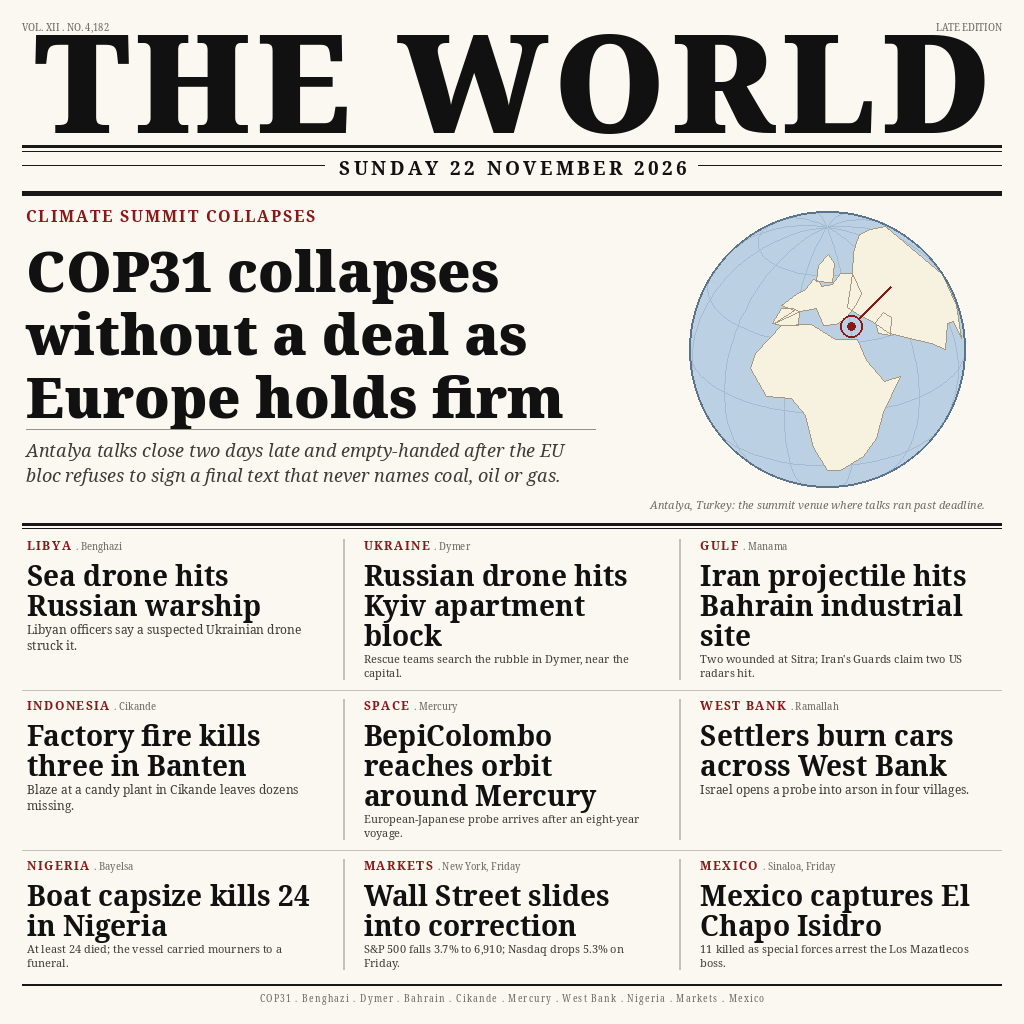
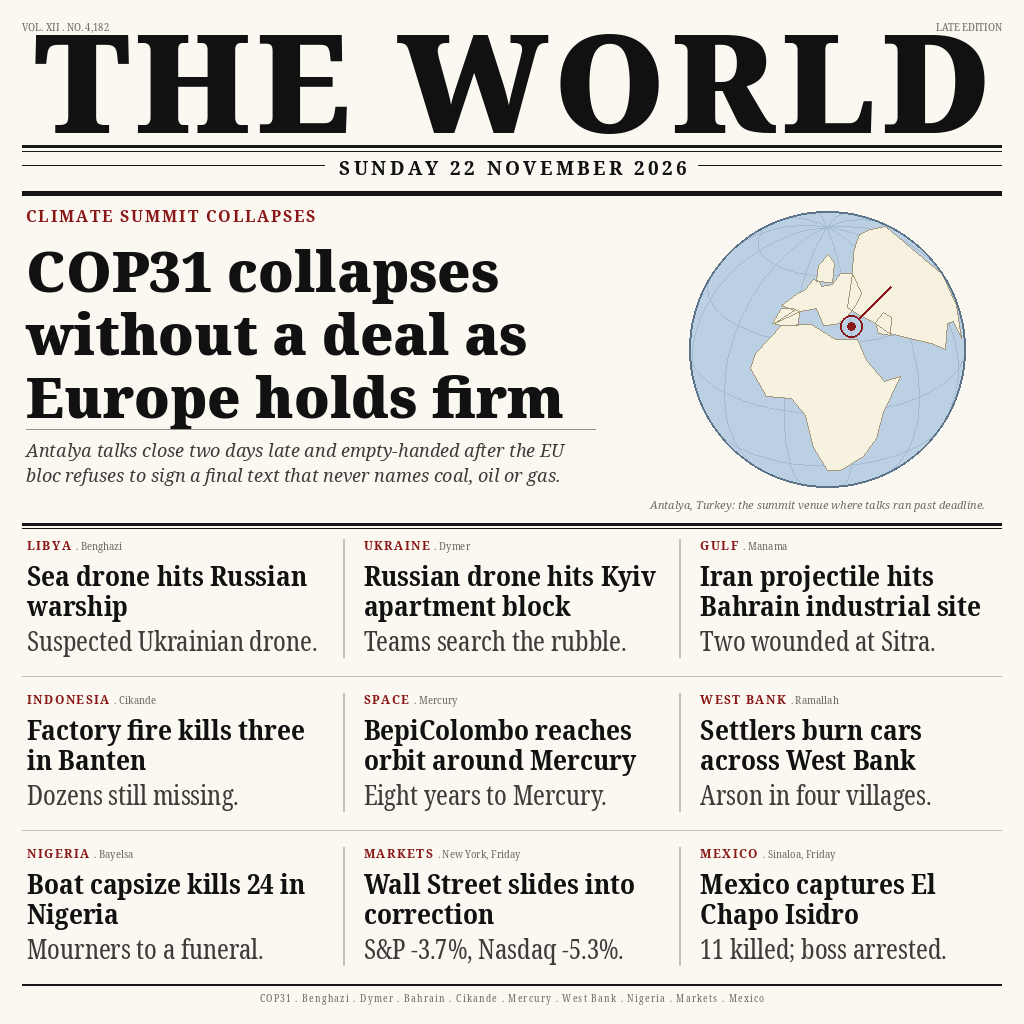
readability-v1: one-line 27.4pt standfirsts, condensed headlines for a 3x3 grid

Changed region(s): [[0.3438, 0.5312, 0.625, 0.9375], [0.6562, 0.5312, 0.9688, 0.9375], [0.0312, 0.5312, 0.3125, 0.9688]]

diff --git a/gen_image.py b/gen_image.py
@@ -42,6 +42,7 @@ SERIF_XBOLD = FONT_DIR + "NotoSerif-ExtraBold.ttf"
 SERIF_BOLD = FONT_DIR + "NotoSerif-Bold.ttf"
 SERIF_COND_BOLD = FONT_DIR + "NotoSerif-CondensedBold.ttf"
 SERIF_COND = FONT_DIR + "NotoSerif-Condensed.ttf"
+SERIF_XCOND = FONT_DIR + "NotoSerif-ExtraCondensed.ttf"
 SERIF = FONT_DIR + "NotoSerif-Regular.ttf"
 SERIF_ITALIC = FONT_DIR + "NotoSerif-Italic.ttf"
 
@@ -263,29 +264,29 @@ def lead(draw, img, top, bottom):
 
 STORIES = [
     ("LIBYA", "Benghazi", "Sea drone hits Russian warship",
-     "Libyan officers say a suspected Ukrainian drone struck it."),
+     "Suspected Ukrainian drone."),
     ("UKRAINE", "Dymer", "Russian drone hits Kyiv apartment block",
-     "Rescue teams search the rubble in Dymer, near the capital."),
+     "Teams search the rubble."),
     ("GULF", "Manama", "Iran projectile hits Bahrain industrial site",
-     "Two wounded at Sitra; Iran's Guards claim two US radars hit."),
+     "Two wounded at Sitra."),
     ("INDONESIA", "Cikande", "Factory fire kills three in Banten",
-     "Blaze at a candy plant in Cikande leaves dozens missing."),
+     "Dozens still missing."),
     ("SPACE", "Mercury", "BepiColombo reaches orbit around Mercury",
-     "European-Japanese probe arrives after an eight-year voyage."),
+     "Eight years to Mercury."),
     ("WEST BANK", "Ramallah", "Settlers burn cars across West Bank",
-     "Israel opens a probe into arson in four villages."),
+     "Arson in four villages."),
     ("NIGERIA", "Bayelsa", "Boat capsize kills 24 in Nigeria",
-     "At least 24 died; the vessel carried mourners to a funeral."),
+     "Mourners to a funeral."),
     ("MARKETS", "New York, Friday", "Wall Street slides into correction",
-     "S&P 500 falls 3.7% to 6,910; Nasdaq drops 5.3% on Friday."),
+     "S&P -3.7%, Nasdaq -5.3%."),
     ("MEXICO", "Sinaloa, Friday", "Mexico captures El Chapo Isidro",
-     "11 killed as special forces arrest the Los Mazatlecos boss."),
+     "11 killed; boss arrested."),
 ]
 
 
 def panel(draw, box, story):
     x0, y0, x1, y1 = box
-    w, h = x1 - x0, y1 - y0
+    w = x1 - x0
     kick, place, head, sub = story
 
     f_kick = font(SERIF_BOLD, 12)
@@ -296,40 +297,27 @@ def panel(draw, box, story):
         draw.text((x + 5, y0 + 1), label, font=f_place, fill=MUTED)
 
     top = y0 + KICK_H
-    budget = h - KICK_H - 4
 
-    # one headline size across the grid; only the standfirst may shrink
-    head_f = font(SERIF_BOLD, HEAD_SIZE)
-    head_lines = wrap(draw, head, head_f, w)
-    head_h = len(head_lines) * int(HEAD_SIZE * 1.1)
-    sub_f = font(SERIF, 12)
-    sub_lines = wrap(draw, sub, sub_f, w)
-    sub_h = len(sub_lines) * int(12 * 1.34)
-    if head_h + 5 + sub_h > budget:
-        sub_f = font(SERIF, 11)
-        sub_lines = wrap(draw, sub, sub_f, w)
-        sub_h = len(sub_lines) * int(11 * 1.34)
-
+    # every headline is sized to occupy at most HEAD_LINES lines, so the
+    # one-line standfirst lands on the same baseline across the grid
+    head_f, head_lines = fit(draw, head, SERIF_COND_BOLD, HEAD_SIZE, w,
+                             HEAD_LINES, floor=18)
     y = para(draw, (x0, top), head_lines, head_f, INK, int(head_f.size * 1.1))
-    para(draw, (x0, y + 5), sub_lines, sub_f, SOFT, int(sub_f.size * 1.34))
-    return top + head_h + 5 + sub_h
+
+    sub_f = font(SERIF_XCOND, SUB_SIZE)
+    sub_line = wrap(draw, sub, sub_f, w)
+    para(draw, (x0, y + SUB_GAP), sub_line[:1], sub_f, SOFT, SUB_LINE_H)
+    return y + SUB_GAP + SUB_LINE_H
 
 
 def panel_height(draw, w, story):
     kick, place, head, sub = story
-    head_f = font(SERIF_BOLD, HEAD_SIZE)
-    head_lines = wrap(draw, head, head_f, w)
-    for sub_size in (12, 11):
-        sub_f = font(SERIF, sub_size)
-        sub_lines = wrap(draw, sub, sub_f, w)
-        if len(head_lines) * int(HEAD_SIZE * 1.1) + 5 \
-                + len(sub_lines) * int(sub_size * 1.34) <= MAX_BODY:
-            sub_h = len(sub_lines) * int(sub_size * 1.34)
-            break
-    return KICK_H + len(head_lines) * int(HEAD_SIZE * 1.1) + 5 + sub_h
+    head_f, head_lines = fit(draw, head, SERIF_COND_BOLD, HEAD_SIZE, w,
+                             HEAD_LINES, floor=18)
+    return KICK_H + len(head_lines) * int(head_f.size * 1.1) + SUB_GAP + SUB_LINE_H
 
 
-GUT, PAD, ROW_GAP = 30, 5, 14
+GUT, PAD, ROW_GAP = 30, 5, 30
 
 
 def grid_boxes(draw, top):
@@ -368,8 +356,11 @@ def grid(draw, top, bottom):
 FOOTER = "COP31 . Benghazi . Dymer . Bahrain . Cikande . Mercury . West Bank . Nigeria . Markets . Mexico"
 
 HEAD_SIZE = 28
+HEAD_LINES = 2
 KICK_H = 19
-MAX_BODY = 3 * int(HEAD_SIZE * 1.1) + 5 + 2 * int(12 * 1.34)
+SUB_SIZE = 27.4  # ~8.03px em when the page is shown 300px wide
+SUB_LINE_H = 40
+SUB_GAP = 5
 
 
 def footer(draw, y):
